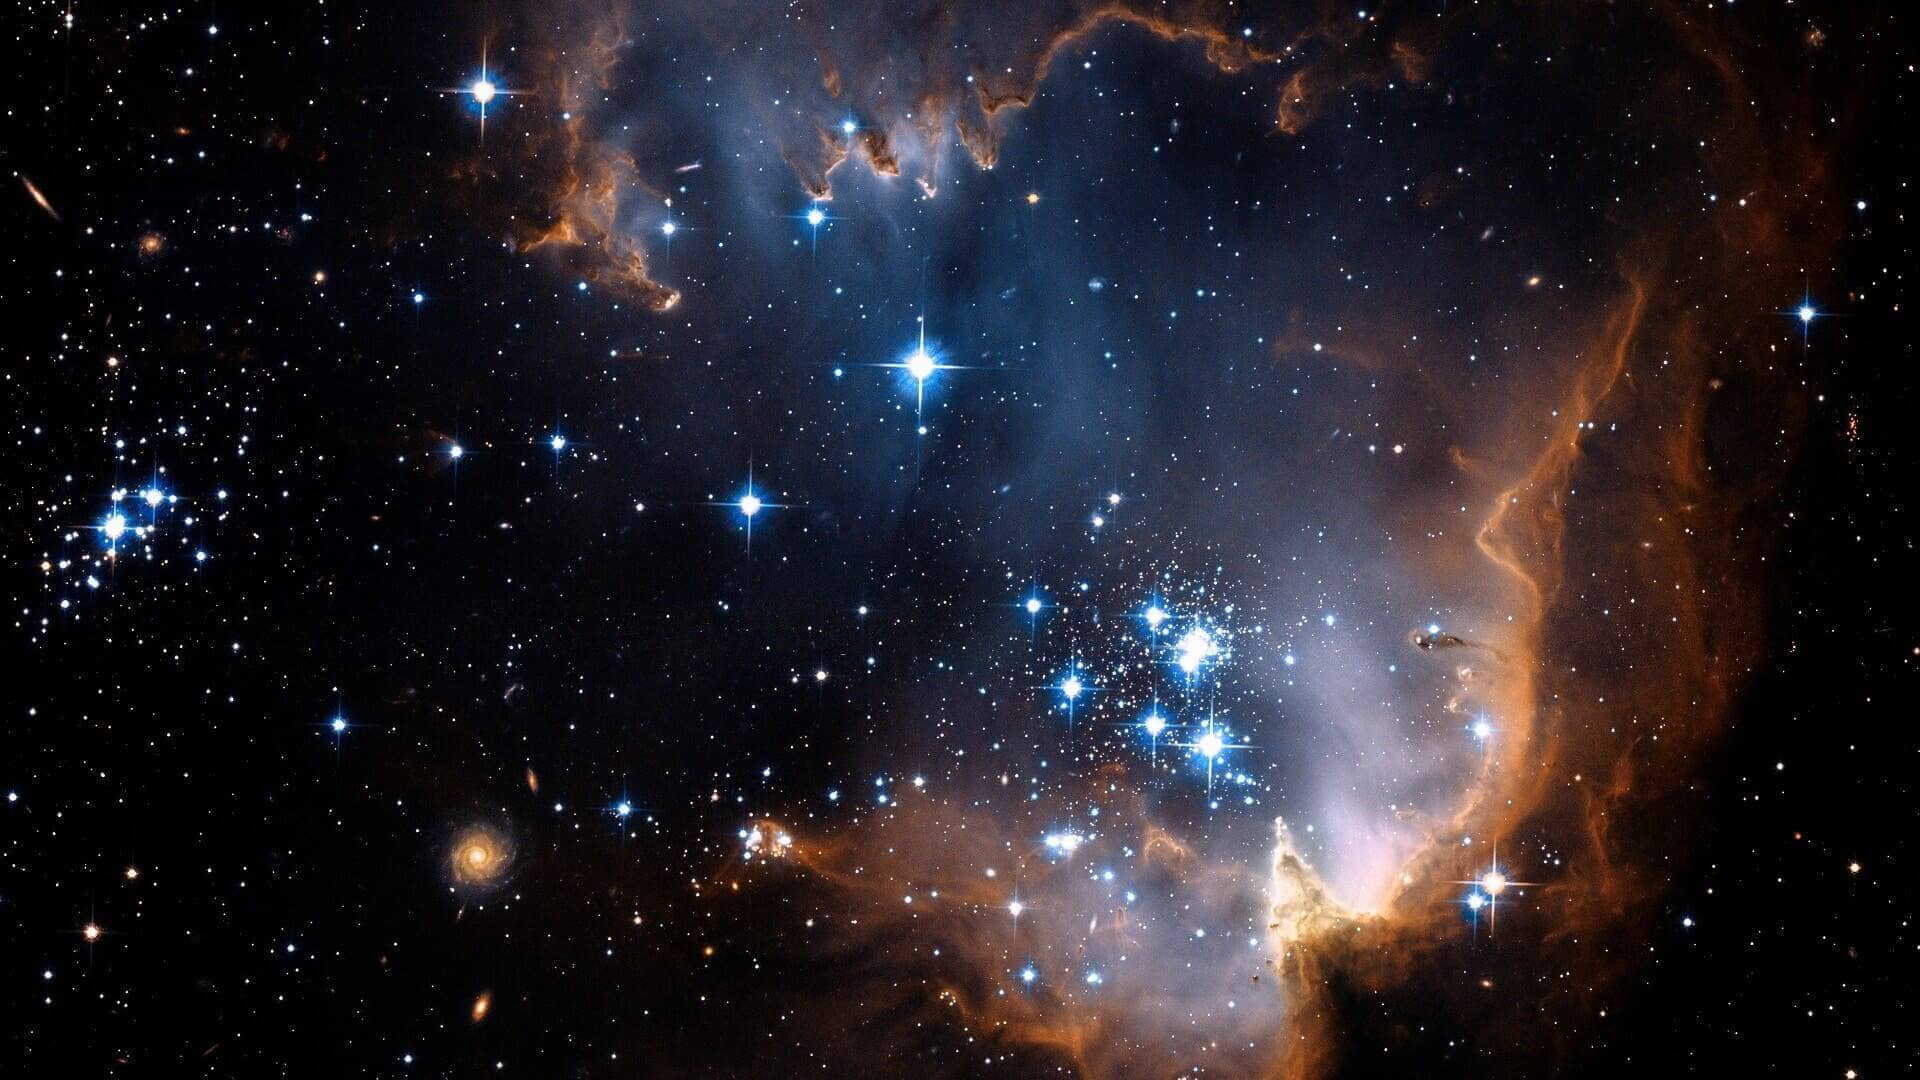
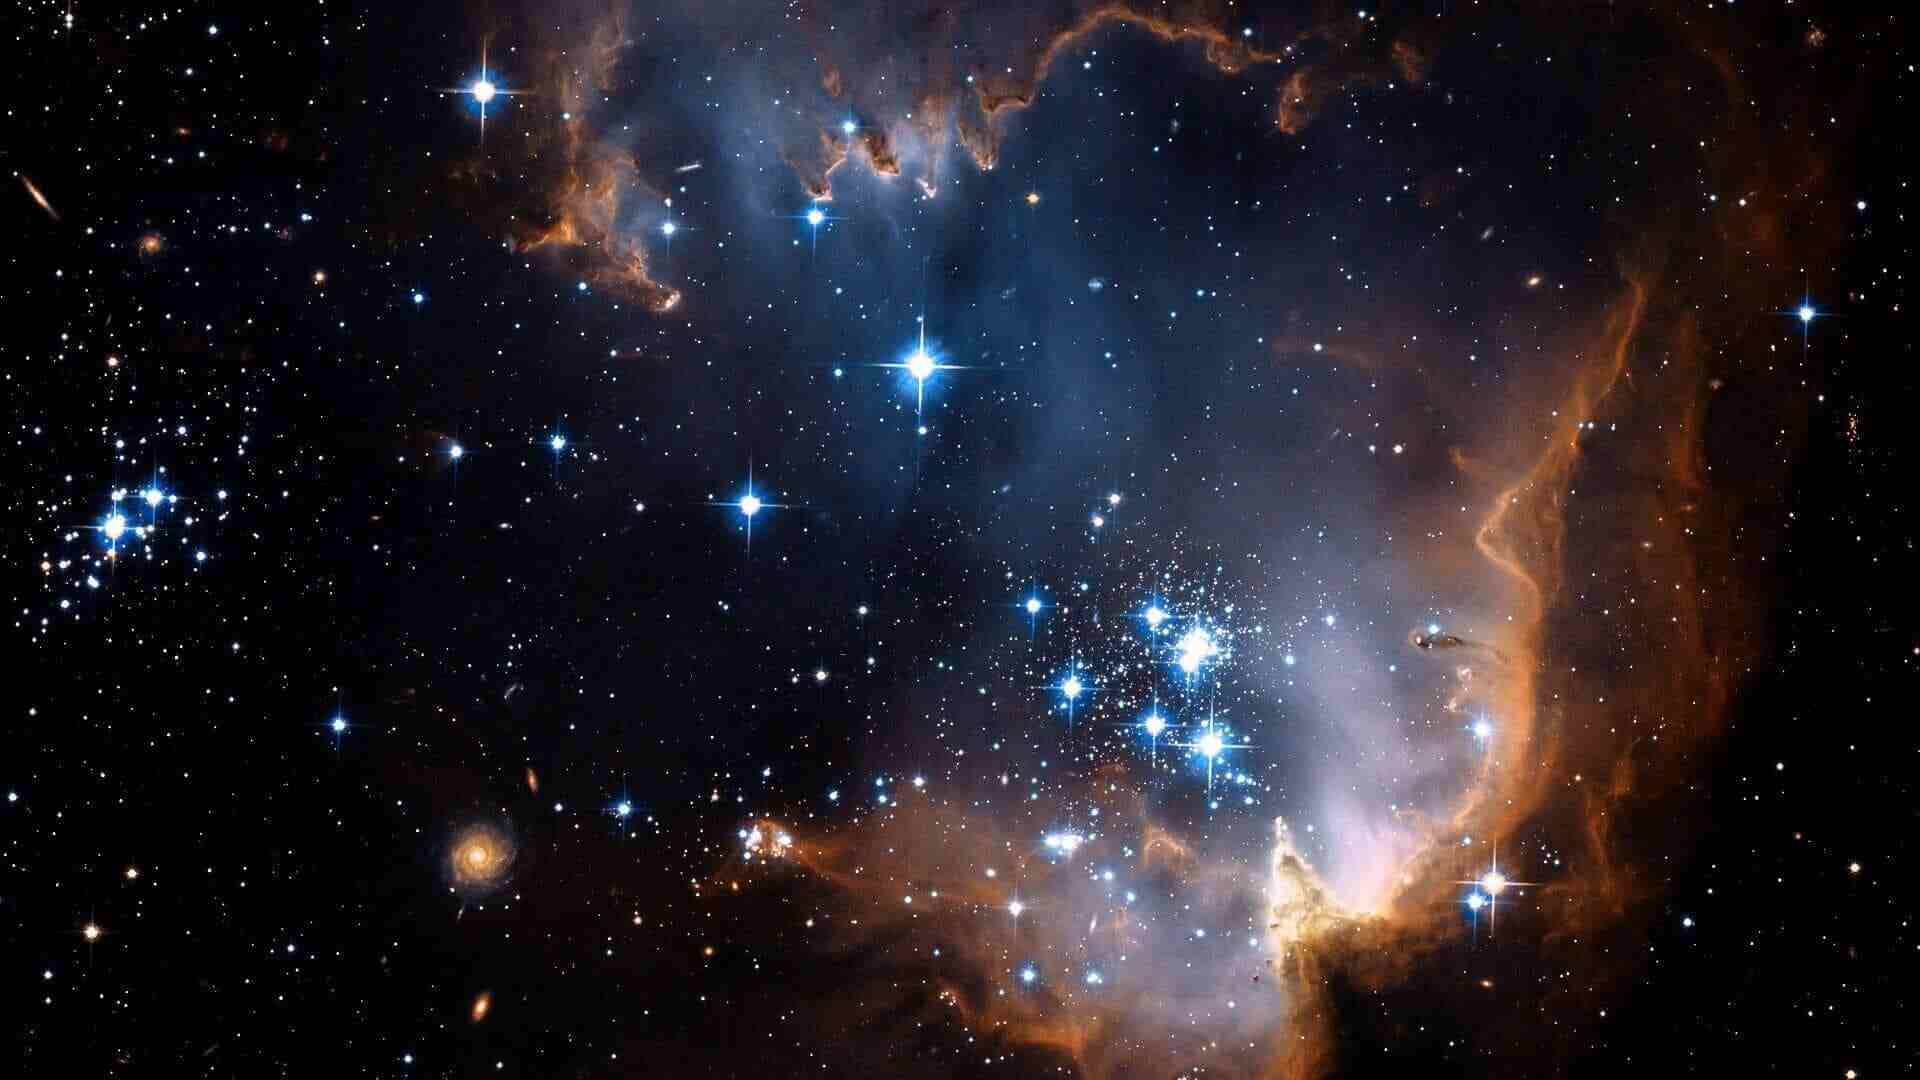
big images optimalization

Changed region(s): [[0.5312, 0.5194, 0.6562, 0.7028], [0.625, 0.7028, 0.6562, 0.7333]]

diff --git a/src/styles/_login.scss b/src/styles/_login.scss
@@ -1,5 +1,5 @@
 .login{
-   background-image: linear-gradient(105deg, rgba(0, 0, 0, 0.5) 0%, rgba(54, 54, 54, 0.5) 100%, transparent 50%), url(../images/login-background.jpeg);
+   background-image: linear-gradient(105deg, rgba(0, 0, 0, 0.5) 0%, rgba(54, 54, 54, 0.5) 100%, transparent 50%), url(../images/login-background.jpg);
    height: 100vh;
    position: relative;
    padding-top: 5rem;
